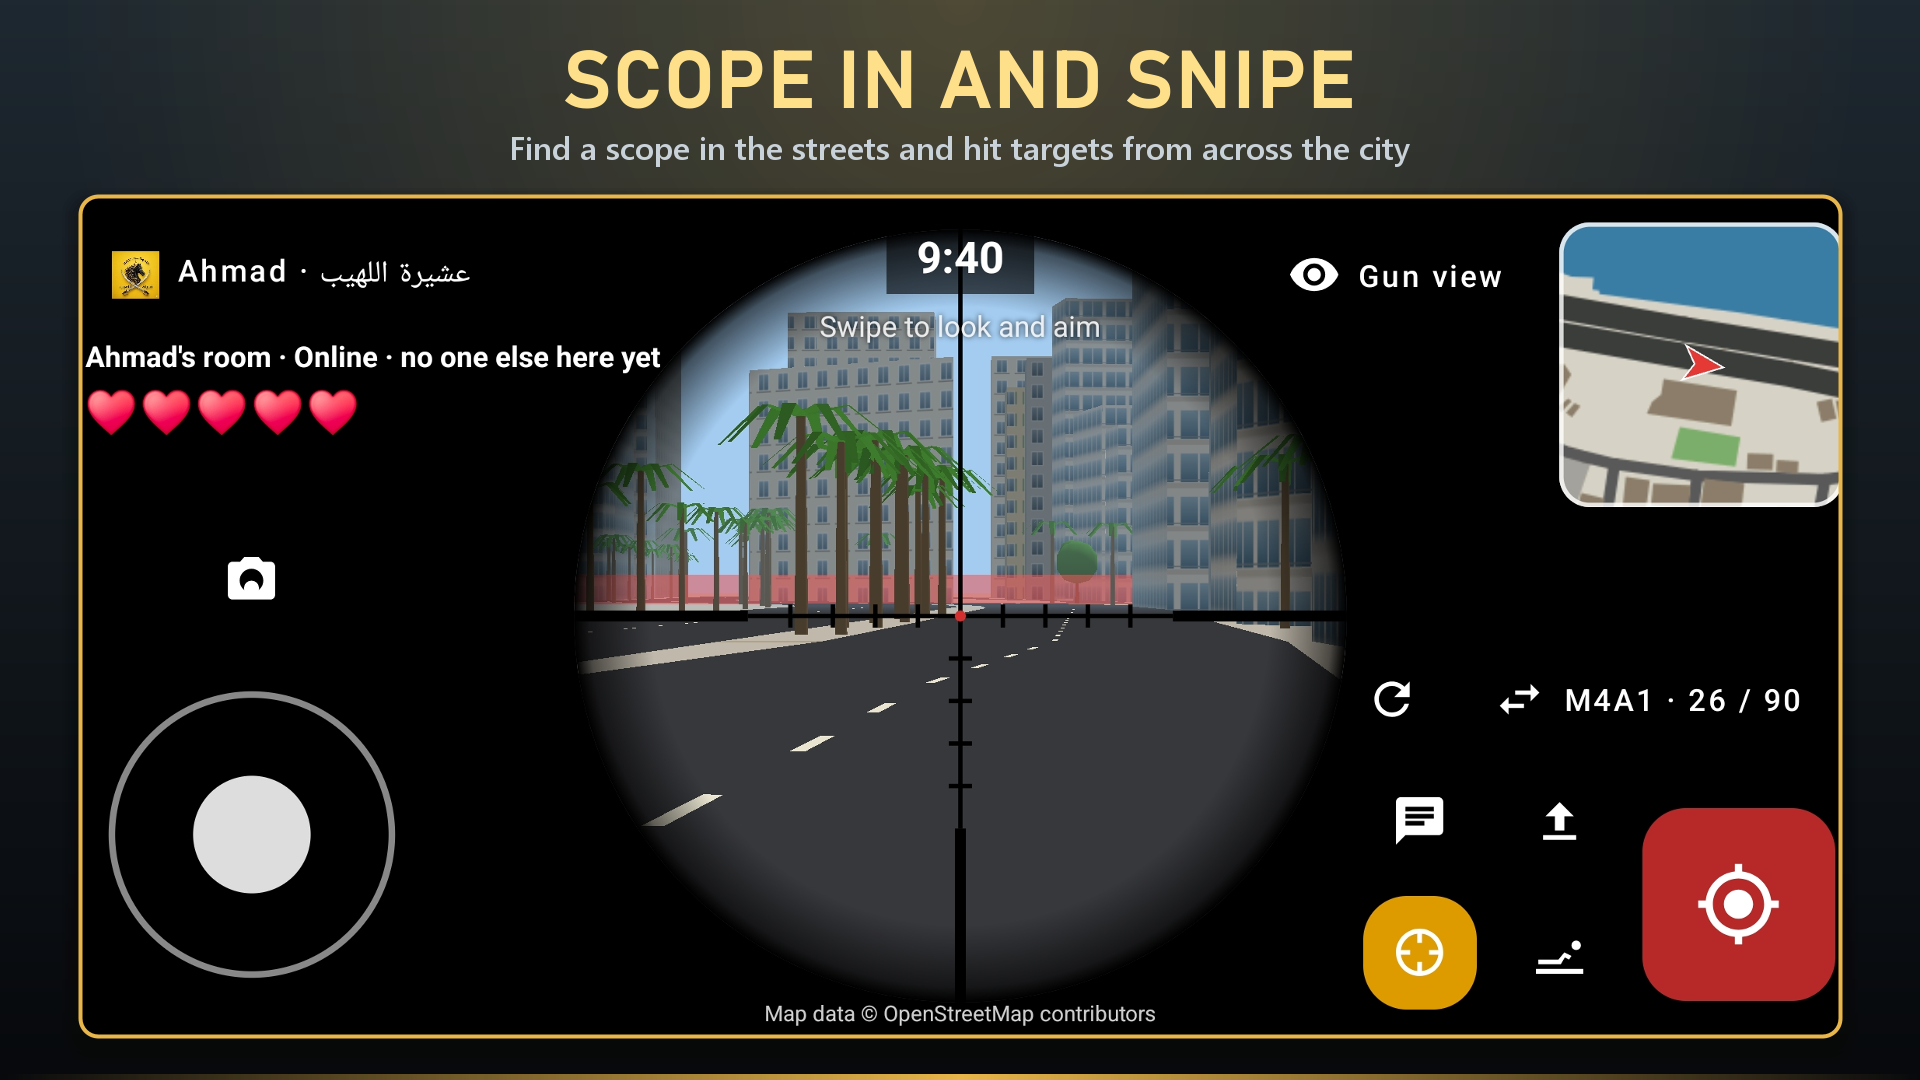
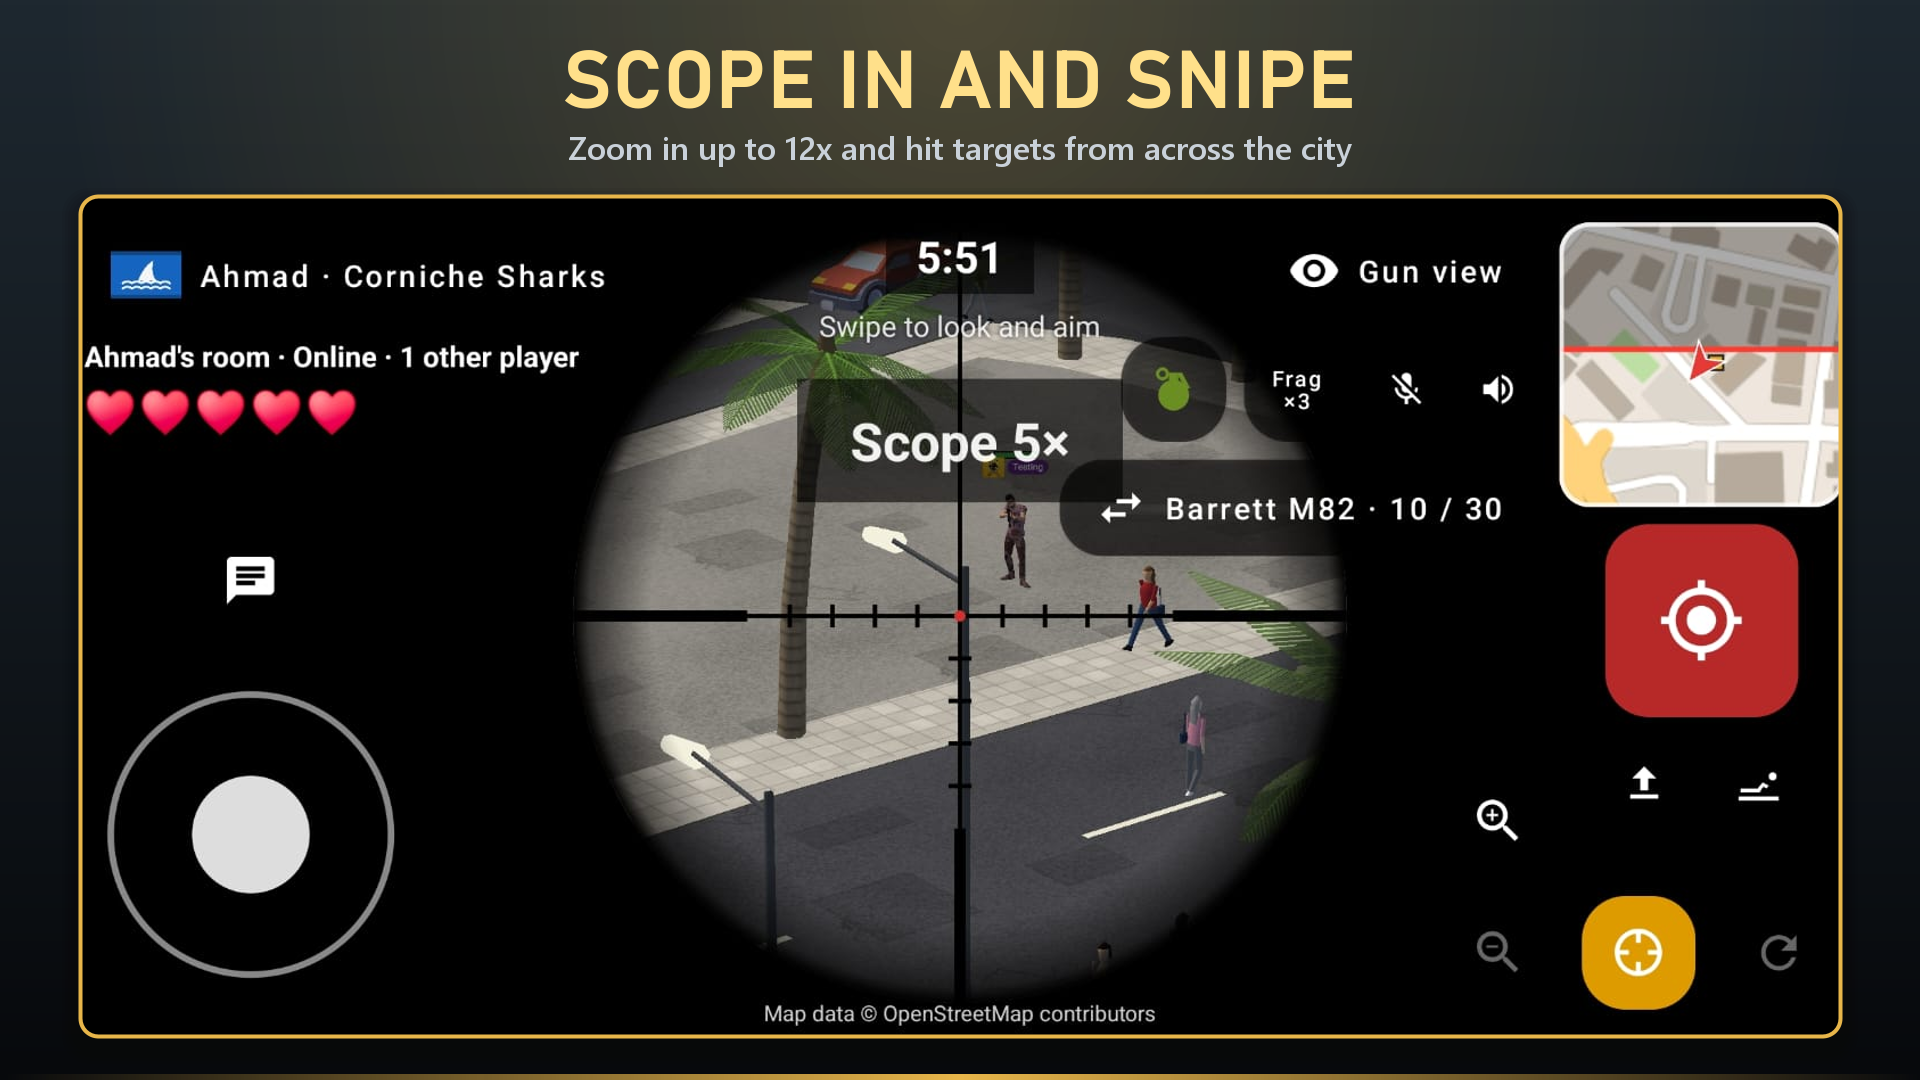
Screenshots for 1.2.0: Play Store and website
New phone screenshots (store/raw/20261005_*) for the streets in third person with
camouflage, traffic and people, the gun view, the scope, a player in the crosshairs,
the loadout and the character screen, plus two new ones: people on the Corniche and
sniping from a rooftop. Ranks and rooms keep their shots.

- store/screenshots/: ten 1920x1080 captioned shots (Play takes up to eight).
- Website gallery, English and Arabic: nine of them at 1280x720 (a 3 x 3 grid), with
  new descriptions.

diff --git a/docs/ar/index.html b/docs/ar/index.html
@@ -214,7 +214,7 @@
   <!-- Characters and teams -->
   <section id="characters">
     <div class="wrap split">
-      <div class="shot"><img src="../assets/shots/07_characters.jpg" alt="شاشة اختيار الشخصية مع علي اللهيب" loading="lazy"></div>
+      <div class="shot"><img src="../assets/shots/07_characters.jpg" alt="شاشة اختيار الشخصية مع علي اللهيب بزيّ مموّه" loading="lazy"></div>
       <div>
         <p class="eyebrow">الشخصيات والفرق</p>
         <h2>اختر مقاتلك</h2>
@@ -290,14 +290,15 @@
       <h2>من داخل اللعبة</h2>
       <p class="lead">اضغط على أي صورة لرؤيتها بالحجم الكامل.</p>
       <div class="gallery">
-        <button type="button"><img src="../assets/shots/01_beirut_streets.jpg" alt="منظور من الخلف على الكورنيش مع رشاش M249" loading="lazy"></button>
-        <button type="button"><img src="../assets/shots/02_real_guns.jpg" alt="منظور السلاح مع بندقية M4A1" loading="lazy"></button>
-        <button type="button"><img src="../assets/shots/03_scope.jpg" alt="التصويب عبر منظار القنص" loading="lazy"></button>
-        <button type="button"><img src="../assets/shots/04_team_battles.jpg" alt="مواجهة لاعب آخر من منظور ثلاثي الأبعاد" loading="lazy"></button>
-        <button type="button"><img src="../assets/shots/05_ranks.jpg" alt="الشاشة الرئيسية مع رتبة أسطورة بيروت" loading="lazy"></button>
+        <button type="button"><img src="../assets/shots/01_beirut_streets.jpg" alt="منظور من الخلف بزيّ مموّه في شارع فيه سيارات وناس" loading="lazy"></button>
+        <button type="button"><img src="../assets/shots/09_living_city.jpg" alt="ناس يمشون على رصيف الكورنيش بجانب سيارة أجرة" loading="lazy"></button>
+        <button type="button"><img src="../assets/shots/02_real_guns.jpg" alt="منظور السلاح مع رشاش M249 وسيارة أجرة أمامك" loading="lazy"></button>
+        <button type="button"><img src="../assets/shots/03_scope.jpg" alt="النظر عبر منظار قنص بتكبير 5× إلى شارع مزدحم" loading="lazy"></button>
+        <button type="button"><img src="../assets/shots/04_team_battles.jpg" alt="لاعب آخر في مرمى منظار القنص" loading="lazy"></button>
+        <button type="button"><img src="../assets/shots/10_rooftops.jpg" alt="القنص من سطح مبنى فوق الشوارع والسيارات" loading="lazy"></button>
+        <button type="button"><img src="../assets/shots/07_characters.jpg" alt="اختيار الشخصية، علي اللهيب بزيّ مموّه" loading="lazy"></button>
         <button type="button"><img src="../assets/shots/06_loadout.jpg" alt="اختيار الأسلحة قبل المباراة" loading="lazy"></button>
-        <button type="button"><img src="../assets/shots/08_rooms.jpg" alt="إنشاء غرفة" loading="lazy"></button>
-        <button type="button"><img src="../assets/shots/07_characters.jpg" alt="اختيار الشخصية" loading="lazy"></button>
+        <button type="button"><img src="../assets/shots/05_ranks.jpg" alt="الشاشة الرئيسية مع رتبة أسطورة بيروت" loading="lazy"></button>
       </div>
     </div>
   </section>

diff --git a/docs/index.html b/docs/index.html
@@ -213,7 +213,7 @@
   <!-- Characters and teams -->
   <section id="characters">
     <div class="wrap split">
-      <div class="shot"><img src="assets/shots/07_characters.jpg" alt="The character screen, with Ali El Lahib" loading="lazy"></div>
+      <div class="shot"><img src="assets/shots/07_characters.jpg" alt="The character screen, with Ali El Lahib in camouflage" loading="lazy"></div>
       <div>
         <p class="eyebrow">Characters and teams</p>
         <h2>Pick your fighter</h2>
@@ -289,14 +289,15 @@
       <h2>Inside the game</h2>
       <p class="lead">Tap a picture to see it full size.</p>
       <div class="gallery">
-        <button type="button"><img src="assets/shots/01_beirut_streets.jpg" alt="Third-person view on the Corniche with an M249" loading="lazy"></button>
-        <button type="button"><img src="assets/shots/02_real_guns.jpg" alt="First-person view with an M4A1" loading="lazy"></button>
-        <button type="button"><img src="assets/shots/03_scope.jpg" alt="Aiming through a sniper scope" loading="lazy"></button>
-        <button type="button"><img src="assets/shots/04_team_battles.jpg" alt="Facing another player in third person" loading="lazy"></button>
-        <button type="button"><img src="assets/shots/05_ranks.jpg" alt="The home screen showing the Beirut Legend rank" loading="lazy"></button>
+        <button type="button"><img src="assets/shots/01_beirut_streets.jpg" alt="Third person in camouflage on a street with cars and people" loading="lazy"></button>
+        <button type="button"><img src="assets/shots/09_living_city.jpg" alt="People walking the Corniche sidewalk beside a taxi" loading="lazy"></button>
+        <button type="button"><img src="assets/shots/02_real_guns.jpg" alt="First-person view with an M249, a taxi driving ahead" loading="lazy"></button>
+        <button type="button"><img src="assets/shots/03_scope.jpg" alt="Looking through a 5× sniper scope at a busy street" loading="lazy"></button>
+        <button type="button"><img src="assets/shots/04_team_battles.jpg" alt="Another player in the sniper scope's crosshairs" loading="lazy"></button>
+        <button type="button"><img src="assets/shots/10_rooftops.jpg" alt="Sniping from a rooftop over the streets and traffic" loading="lazy"></button>
+        <button type="button"><img src="assets/shots/07_characters.jpg" alt="Choosing a character, Ali El Lahib in camouflage" loading="lazy"></button>
         <button type="button"><img src="assets/shots/06_loadout.jpg" alt="Choosing guns before a match" loading="lazy"></button>
-        <button type="button"><img src="assets/shots/08_rooms.jpg" alt="Creating a room" loading="lazy"></button>
-        <button type="button"><img src="assets/shots/07_characters.jpg" alt="Choosing a character" loading="lazy"></button>
+        <button type="button"><img src="assets/shots/05_ranks.jpg" alt="The home screen showing the Beirut Legend rank" loading="lazy"></button>
       </div>
     </div>
   </section>

diff --git a/store/MakeScreenshots.java b/store/MakeScreenshots.java
@@ -16,14 +16,16 @@ import java.io.File;
 public class MakeScreenshots {
     /** Output name, raw file (in the raw folder), title, subtitle. */
     static final String[][] SHOTS = {
-        {"01_beirut_streets", "Screenshot_20261002_101603_Beirut Strike.jpg", "FIGHT IN REAL BEIRUT STREETS", "Downtown, Hamra, the Corniche and more, built from real city maps"},
-        {"02_real_guns", "Screenshot_20261002_101327_Beirut Strike.jpg", "12 REAL GUNS", "Pistols, rifles, machine guns and sniper rifles, each with its own feel"},
-        {"03_scope", "Screenshot_20261002_101343_Beirut Strike.jpg", "SCOPE IN AND SNIPE", "Find a scope in the streets and hit targets from across the city"},
-        {"04_team_battles", "Screenshot_20261002_101718_Beirut Strike.jpg", "ONLINE TEAM BATTLES", "Timed matches with friends, in first or third person"},
+        {"01_beirut_streets", "20261005_3d_person_street.jpeg", "FIGHT IN A LIVING BEIRUT", "Real streets with traffic and people, built from real city maps"},
+        {"02_real_guns", "20261005_gun_view_taxi.jpeg", "12 REAL GUNS", "Pistols, rifles, machine guns and sniper rifles, each with its own feel"},
+        {"03_scope", "20261005_scope_street.jpeg", "SCOPE IN AND SNIPE", "Zoom in up to 12x and hit targets from across the city"},
+        {"04_team_battles", "20261005_scope_enemy.jpeg", "ONLINE TEAM BATTLES", "Timed matches with friends, with team voice chat"},
         {"05_ranks", "Screenshot_20261002_101157_Beirut Strike.jpg", "RISE THROUGH 20 MILITARY RANKS", "Earn XP with every kill, headshot and win, from Private to Beirut Legend"},
-        {"06_loadout", "Screenshot_20261002_101318_Beirut Strike.jpg", "BUILD YOUR LOADOUT", "Choose a pistol, a primary and a sniper rifle before every match"},
-        {"07_characters", "Screenshot_20261002_101248_Beirut Strike.jpg", "PICK YOUR CHARACTER", "Each with a victory dance for when you win"},
+        {"06_loadout", "20261005_loadout.jpeg", "BUILD YOUR LOADOUT", "Choose a pistol, a primary and a sniper rifle before every match"},
+        {"07_characters", "20261005_character_ali.jpeg", "PICK YOUR FIGHTER", "In army camouflage, with a victory dance for when you win"},
         {"08_rooms", "Screenshot_20261002_101229_Beirut Strike.jpg", "CREATE YOUR OWN MATCH", "Pick the map, size and length, add a password or a minimum rank"},
+        {"09_living_city", "20261005_people_corniche.jpeg", "A CITY THAT'S ALIVE", "Cars drive the streets, people walk the sidewalks and run when the shooting starts"},
+        {"10_rooftops", "20261005_rooftop.jpeg", "TAKE THE ROOFTOPS", "Climb the ladders and cover the streets from above"},
     };
 
     static final int W = 1920, H = 1080;
